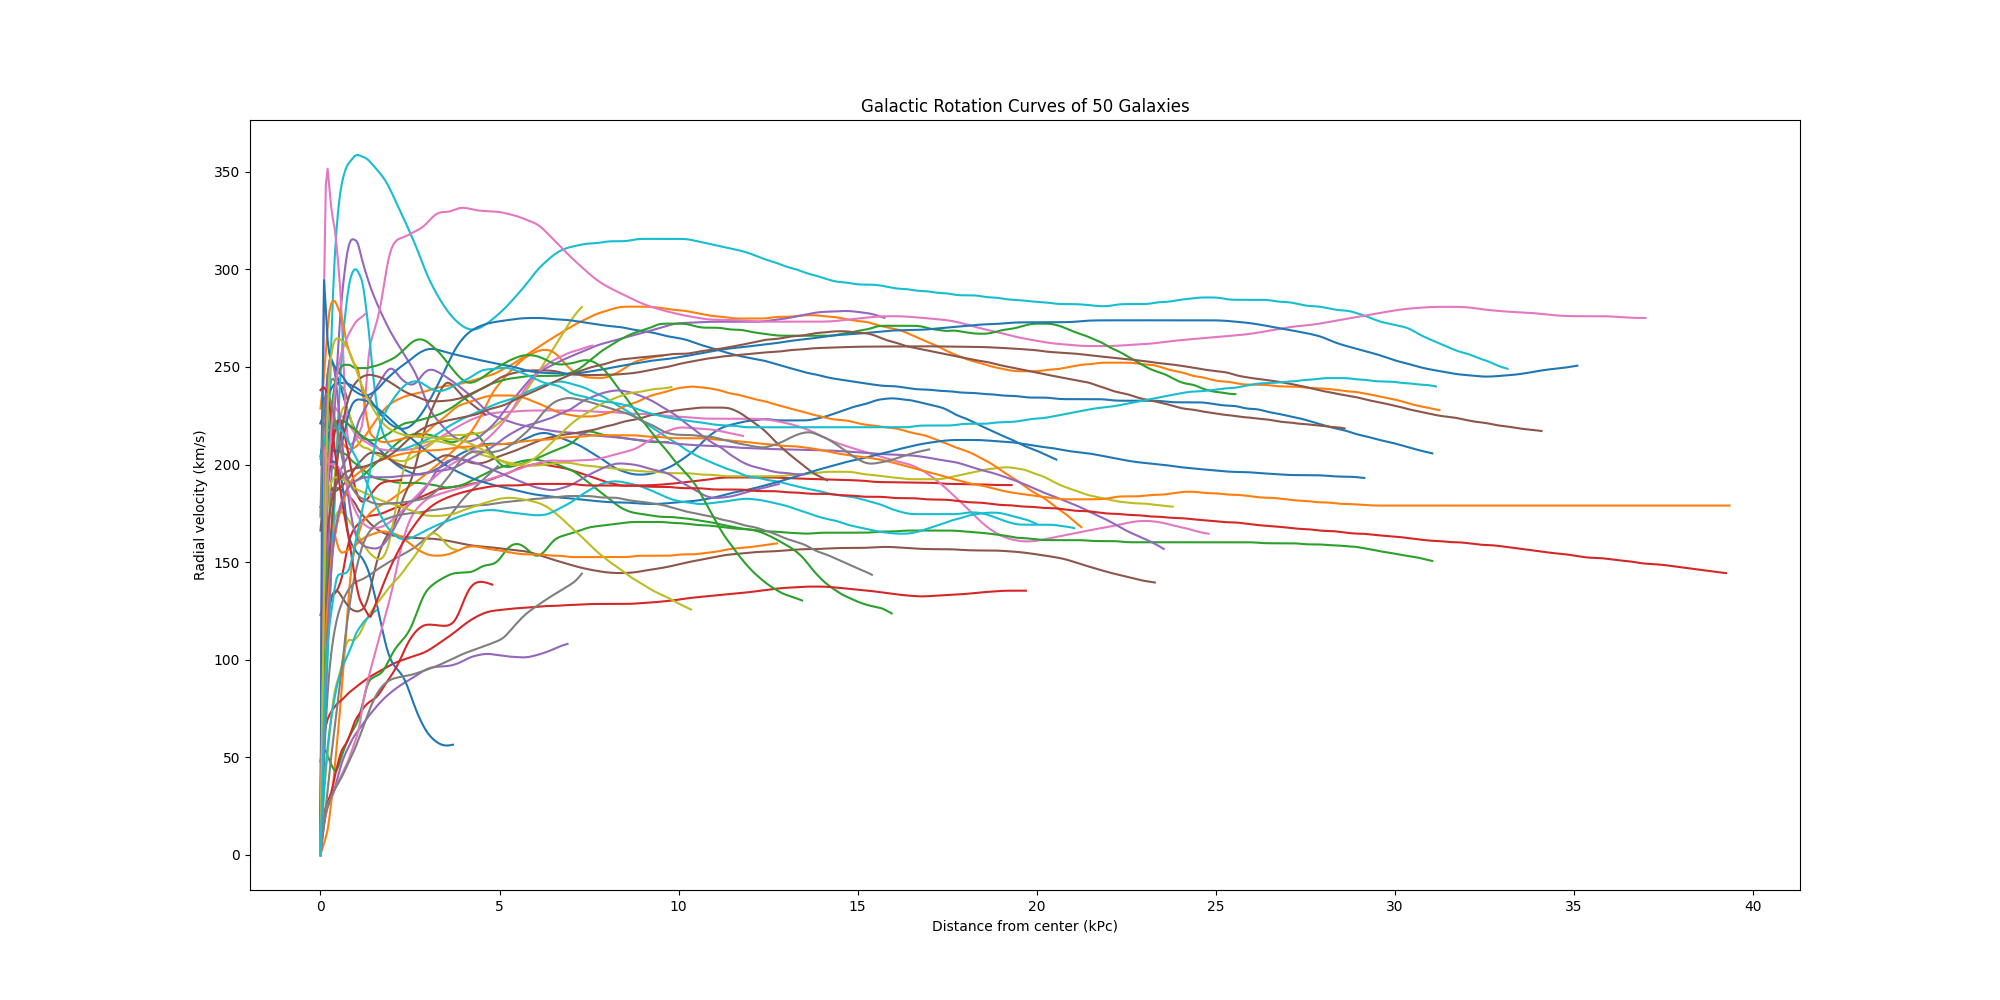
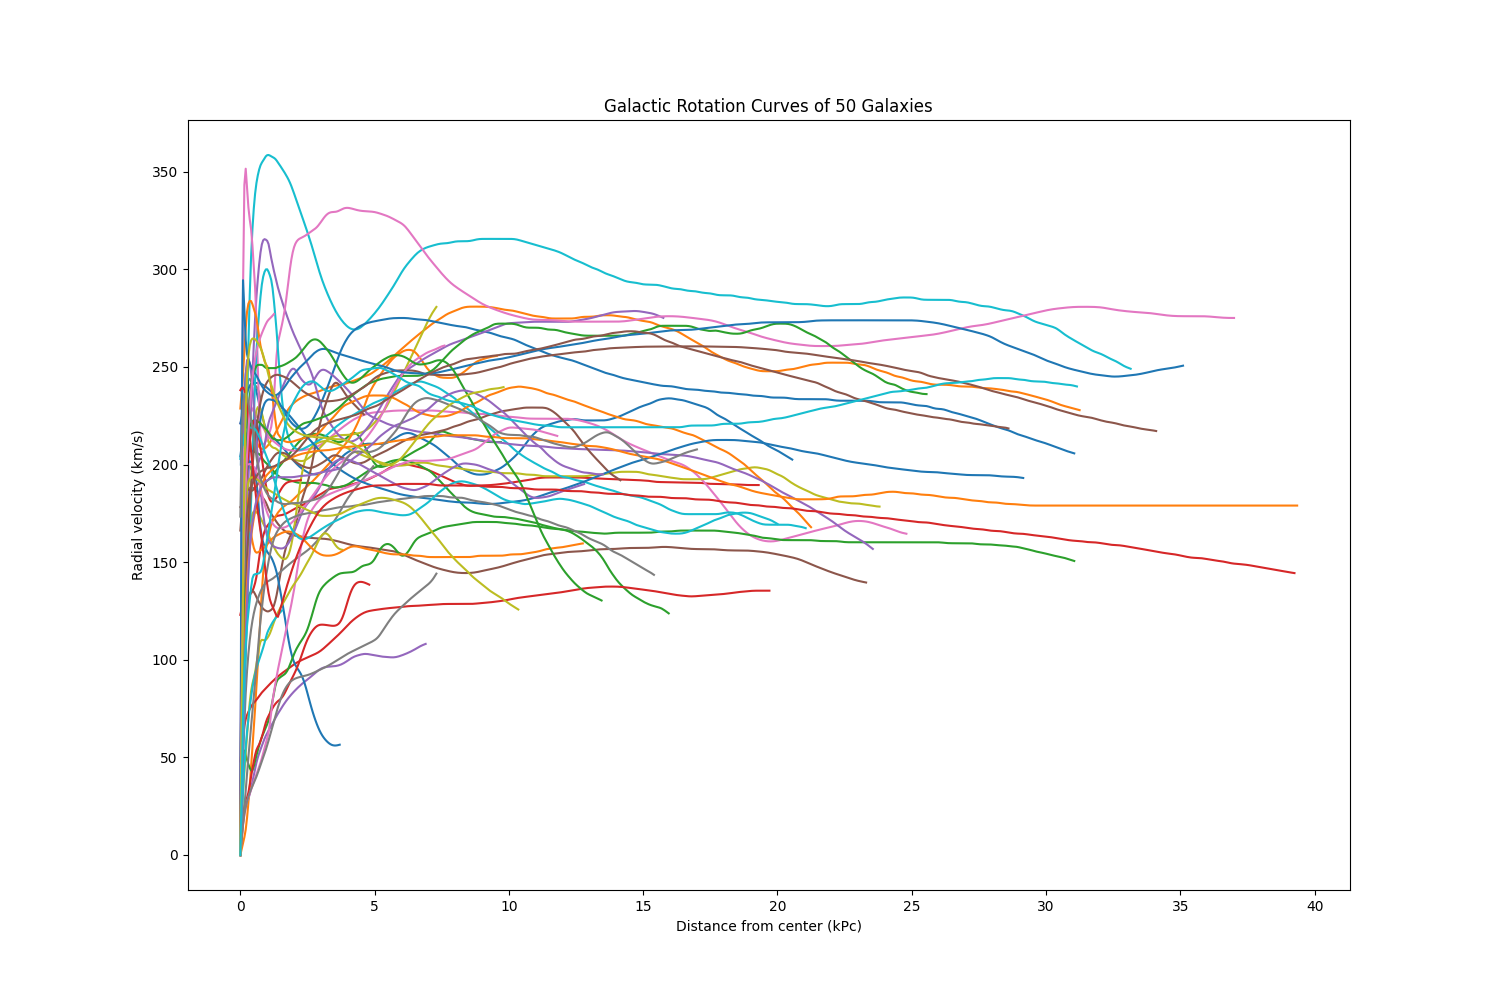
Updated README

diff --git a/rotation_curves.py b/rotation_curves.py
@@ -9,7 +9,7 @@ from data_extract import extract_galaxy_data
 data_path = "alldata"
 datafiles = os.listdir(data_path)
 
-plt.figure(figsize=(20, 10))
+plt.figure(figsize=(15, 10))
 
 for datafile in datafiles:
     filepath = os.path.join(data_path, datafile)

diff --git a/README.md b/README.md
@@ -15,7 +15,8 @@ The plot obtained from my visualization is:
 
 ![](rotation_curves.png "The Rotation Curves Obtained from my Analysis")
 
-And the original result (located at: http://www.ioa.s.u-tokyo.ac.jp/~sofue/rotation/fig1/all-new.gif) from the research conducted on this is :
+And the original result (located at: http://www.ioa.s.u-tokyo.ac.jp/~sofue/rotation/fig1/all-new.gif) from the research conducted on this is:
+
 ![](og_result.gif "The Original Rotation Curves")
 
 
